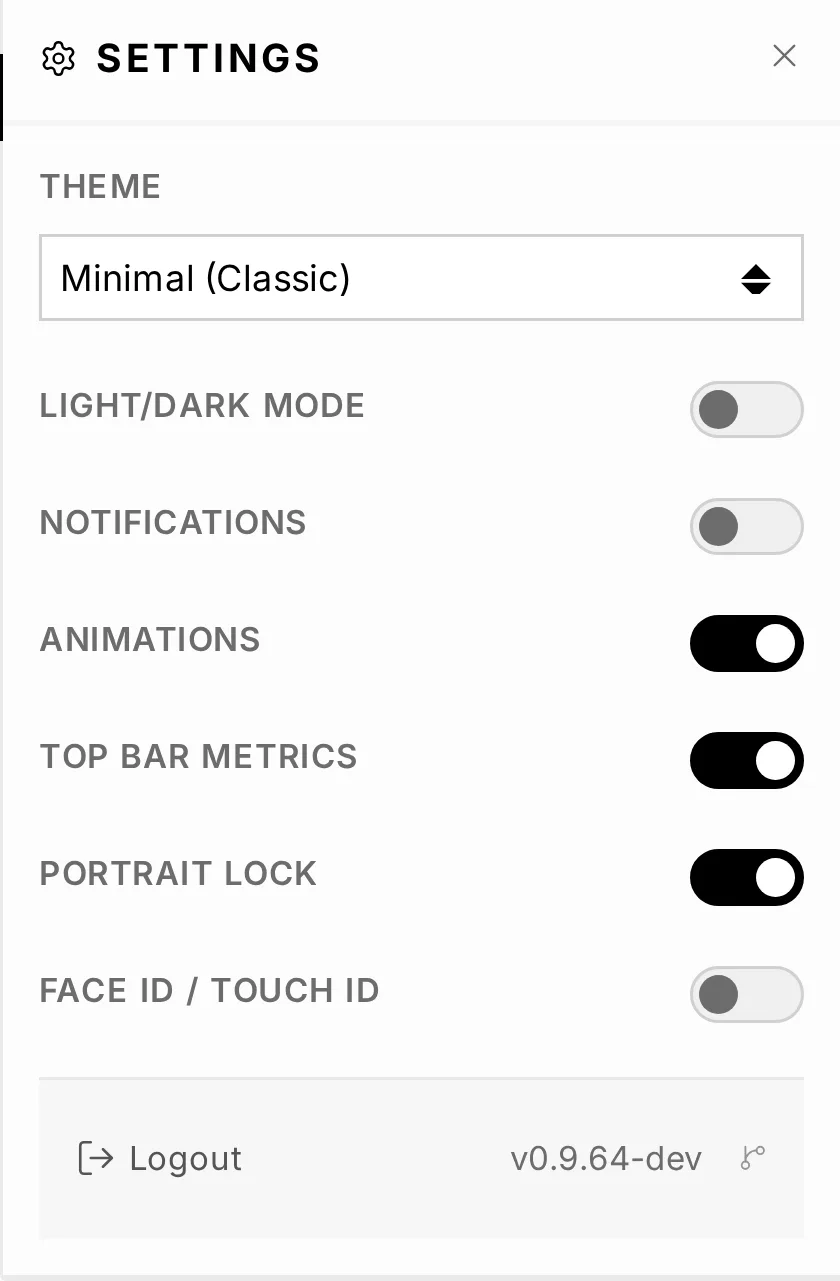
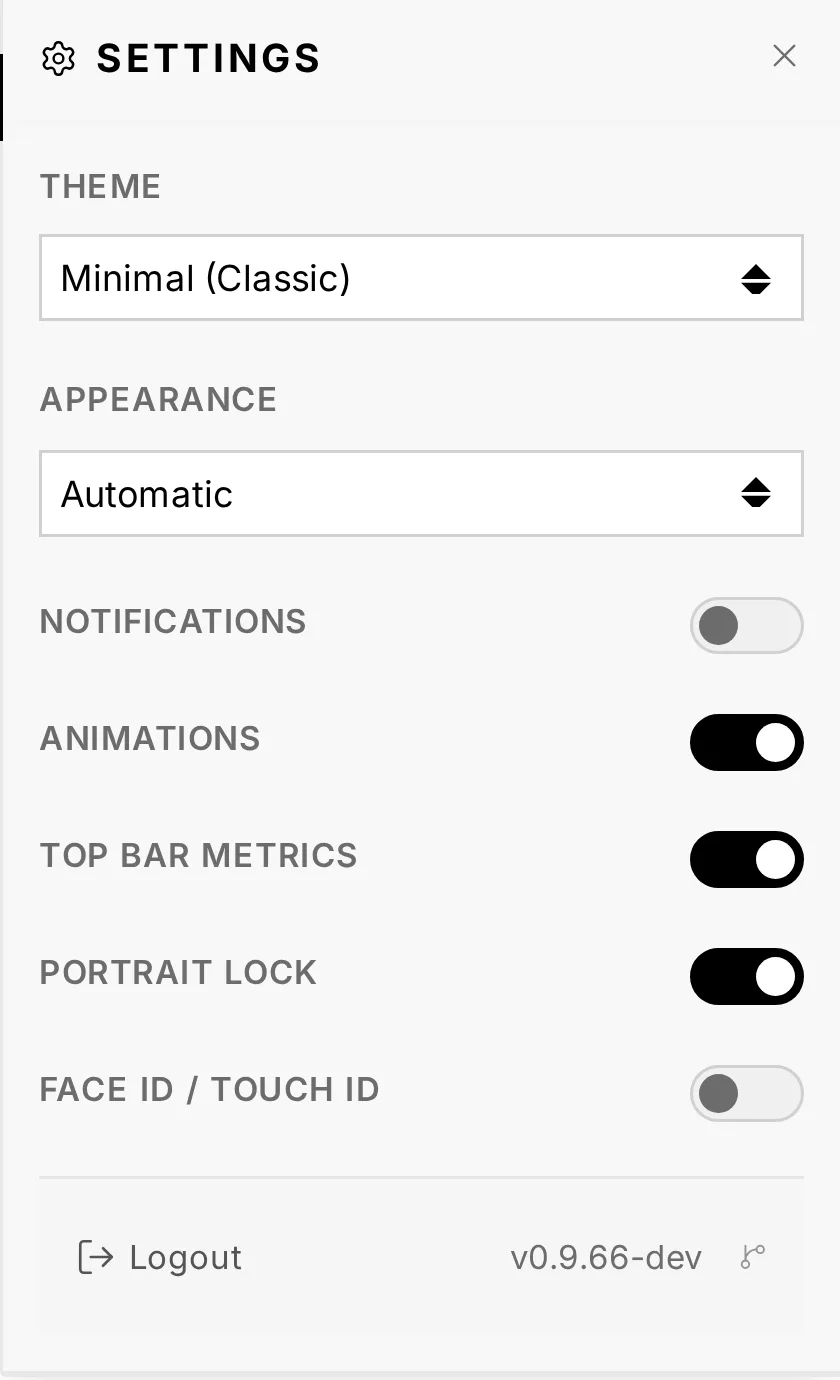
docs: document the interface's visual pass
Changelog and release notes for the visual pass of the interface; the
manual's chapters 03, 04, 05, 07 and 09 and three of its figures follow
it; the editions speak of a simulation, not a dry-run.

diff --git a/index.html b/index.html
@@ -1282,7 +1282,7 @@
                             <div class="pp-row"><span class="ck"><svg class="ck-ic" viewBox="0 0 24 24" aria-label="yes" role="img"><use href="#ic-check" /></svg></span><span><b>Services</b> — live monitoring · start
                                     / stop / restart</span></div>
                             <div class="pp-row"><span class="ck"><svg class="ck-ic" viewBox="0 0 24 24" aria-label="yes" role="img"><use href="#ic-check" /></svg></span><span><b>Software</b> — install · update ·
-                                    dry-run</span></div>
+                                    simulate</span></div>
                             <div class="pp-row"><span class="ck"><svg class="ck-ic" viewBox="0 0 24 24" aria-label="yes" role="img"><use href="#ic-check" /></svg></span><span><b>System</b> — hardware dashboard +
                                     audio inventory</span></div>
                             <div class="pp-row"><span class="ck"><svg class="ck-ic" viewBox="0 0 24 24" aria-label="yes" role="img"><use href="#ic-check" /></svg></span><span><b>Users</b> — Admin / User / Guest

diff --git a/CHANGELOG.md b/CHANGELOG.md
@@ -9,6 +9,26 @@ and this landing) are documented here. Format based on
 
 ## [Unreleased]
 
+### Added
+- **[ui][manual] The app can follow the device's light or dark mode.** Settings → Appearance offers *Automatic*, *Light* and *Dark* in place of the light/dark switch. *Automatic*, the default, follows the device — light by day, dark at night on a device that switches by itself — and so does the sign-in screen, from its first paint. A device set to light or dark with the old switch keeps that choice.
+- **[ui][manual] A live radio shows LIVE instead of a progress bar.** A live stream has no end and no position: the bar gives way to a *LIVE* marker under the transport, which dims while the stream is paused.
+
+### Changed
+- **[ui][manual] On a phone, the mini-player gives the title its room.** Title and artist shared one line, in the width four buttons left them — 115 px on an iPhone mini — and had to scroll to be read. *Previous* leaves the bar (the full player keeps it; volume stays), and title and artist take a line each: 159 px of text.
+- **[ui][manual] A radio card's actions open from ⋯.** In *My Live Radio* every card carried a green tick that meant *Remove from My Live Radio*: touching it removed the station. A ⋯ button now opens *Edit station* and *Remove from My Live Radio*.
+- **[ui] The settings panel and the tab menu are opaque.** At 40 % with a blur, the page showed through them: coloured smudges and stray words between the switches and under the tab names.
+- **[ui] On a phone, every page's title sits at the same distance from the tab menu.** Six tabs left 2 px between the menu and the title, three left 6 px; all now leave 6 px.
+- **[ui] Text faded at rest reads again.** The cards of stopped services, the dates of configuration files and the *PERSIST* label were faded down to 2.8–3.5:1; they now keep the contrast of the text around them.
+- **[ui] Check boxes and radio buttons take the theme's colours.** They took the browser's blue, and in the dark palette an unchecked box was a white square: they now take the text's colour, drawn in the light or dark palette in force.
+- **[ui] System figures are written as they are.** Values were set in capitals — *X86_64*, and *MHZ*, which is no unit; they now read *x86_64* and *MHz*, the unit smaller on the number's line.
+- **[ui][manual] Plainer words in Admin.** The live feed's tile is *Live updates*, no longer *SSE Stream*, and the cockpit at the bottom of the tab is the *UI performance cockpit*.
+- **[ui] On a computer, the library's lists are centred.** The queue, sources, outputs and radio lists stretched across the whole screen; they now keep to 900 px, centred, under a tab bar that stays in place from one view to the next.
+- **[ui] The full-screen player uses a landscape screen's width.** From 900 px wide in landscape, the cover sits on the left and the track, its controls and what comes next on the right, instead of one column under the cover.
+- **[site][ui] The editions speak of a simulation, not a dry-run.** The Starter edition's software line, on the landing and in the app.
+
+### Fixed
+- **[ui] The System tab shows the memory in use.** It read two fields the core does not send, and showed *0.0 GB / 0.0 GB* on every box; it now shows the memory in use and the total, such as *2.8 GB / 3.7 GB*.
+
 ## [0.9.65] - 2026-10-04
 
 ### Added

diff --git a/docs/manual/07-administration.md b/docs/manual/07-administration.md
@@ -12,7 +12,7 @@ Audiogravi<sup>ty</sup>: the **user cards** (below), unread
 [announcements](#announcements), the [update banner](08-updating.md) — and the
 **licence** panel, which also opens when a Starter install taps a locked Pro tab.
 
-At the bottom of the tab, the **Frontend performance cockpit** measures the app itself in
+At the bottom of the tab, the **UI performance cockpit** measures the app itself in
 your browser: the live updates it receives, its timers, the memory it uses (in Chrome, Edge
 and other Chromium browsers) and how long the page has been open. It is a diagnostic aid —
 nothing there changes how the box plays.
@@ -56,10 +56,12 @@ closed, for the same 12 hours.
 The **gear** in the top bar opens the app-wide Settings panel:
 
 - **Theme** — three looks: *Minimal (Classic)*, *Slate (Modern)* and *Gravity (Bold &
-  Cosmic)* — plus a **Light/Dark Mode** toggle. The light/dark switch is also on the
-  sign-in screen, so the choice can be made before signing in (see
-  [3. First run](03-first-run.md#2-sign-in--and-secure-your-account)); the look itself is
-  chosen here.
+  Cosmic)*. The look is chosen here.
+- **Appearance** — **Automatic**, the default, follows your device: light by day, dark at
+  night on a device that switches by itself. **Light** and **Dark** keep one, whatever the
+  device does. The sign-in screen has a light/dark button too, so the choice can be made
+  before signing in (see
+  [3. First run](03-first-run.md#2-sign-in--and-secure-your-account)).
 - **Notifications** — subscribe this device to **push notifications** (see below).
 - **Animations** — turns UI motion off (functional loading spinners keep animating so
   an operation never looks stuck).
@@ -71,7 +73,7 @@ The **gear** in the top bar opens the app-wide Settings panel:
   registered device appears as a chip you can remove individually. (These are the
   same credentials as the *Passkeys* button on your user card above.)
 
-<img src="images/ios-settings.webp" alt="The Settings panel: theme, and one toggle per row — light/dark mode, notifications, animations, top bar metrics, portrait lock and Face ID / Touch ID" width="360">
+<img src="images/ios-settings.webp" alt="The Settings panel: the theme and appearance menus, then one toggle per row — notifications, animations, top bar metrics, portrait lock and Face ID / Touch ID" width="360">
 
 ### Push notifications
 
@@ -329,8 +331,8 @@ shairport-sync, Roon Bridge…).
 
 Real-time monitoring and box-level actions.
 
-- **Metrics** — CPU, temperature, memory, disk and network, updated live; the **SSE
-  Stream** tile shows whether the live feed is connected.
+- **Metrics** — CPU, temperature, memory, disk and network, updated live; the **Live
+  updates** tile shows whether the live feed is connected.
 - **System & audio hardware** — hostname, OS, kernel, CPU model/cores; every audio
   card, USB interface and subdevice.
 - **Event log** — system events and live updates; RUNNING/STOPPED to pause, CLEAR to

diff --git a/docs/manual/04-listening.md b/docs/manual/04-listening.md
@@ -8,7 +8,8 @@ of controls.
 
 A sticky **Now Playing** bar sits above the footer and shows **all active audio
 sources** at once, with quick transport — previous, play/pause, next, and volume.
-Repeat and shuffle are in the fullscreen player.
+Repeat and shuffle are in the fullscreen player — and on a phone, previous too: there
+the bar gives its room to the title and the artist, a line each.
 
 **Opening the fullscreen player.** There are three ways in, and tapping the bar
 itself is not one of them:
@@ -21,12 +22,13 @@ itself is not one of them:
 Tapping the **cover art** does something else: it opens the album's details —
 Album, Artist, Year, Genre, Format, Position, Source — and its tracklist.
 
-<img src="images/ios-nowplaying-bar.webp" alt="The Now Playing bar: cover art, the stream-origin and output badges, the track, and the transport — previous, play/pause, next and volume" width="360">
+<img src="images/ios-nowplaying-bar.webp" alt="The Now Playing bar on a phone: cover art, the stream-origin and output badges, the title and the artist on a line each, and the transport — play/pause, next and volume" width="360">
 
 ## The fullscreen player
 
 - **Cover art** with a dynamic background derived from it, a **seekable progress
-  bar**, and full **transport**: repeat · previous · play/pause · next · shuffle.
+  bar** — **Live** in its place for an internet radio station, which has no end — and
+  full **transport**: repeat · previous · play/pause · next · shuffle.
 - **Album details** — Album, Artist, Format, Genre, Year, Position, Source and the
   full **Tracklist**.
 - A **Queue** view for what's coming up (see below).

diff --git a/RELEASE_NOTES.md b/RELEASE_NOTES.md
@@ -7,7 +7,30 @@ Synthesized overview of each release. For the full line-by-line changelog, see
 
 ## Unreleased
 
-_Nothing yet._
+### A visual pass
+
+**Light or dark, like your device.** Settings → Appearance now offers *Automatic*, *Light*
+and *Dark*. *Automatic* follows your device — light by day, dark at night on a device that
+switches by itself — down to the sign-in screen. A choice made with the old switch is kept.
+
+**Radio, live.** A live station has no end and no position: the progress bar gives way to a
+*LIVE* marker. In *My Live Radio*, a green tick on every card removed the station at a touch;
+a ⋯ button now opens *Edit station* and *Remove from My Live Radio*.
+
+**A phone that reads better.** The mini-player gives the title and the artist a line each
+instead of one scrolling line. Every page's title sits at the same distance from the tab
+menu, and the settings panel no longer lets the page show through.
+
+**Quiet, not faint.** Text that was faded at rest — stopped services, file dates — keeps a
+readable contrast, and check boxes and radio buttons take the theme's colours instead of the
+browser's blue.
+
+**On a computer.** The library's lists are centred, and the full-screen player uses the width
+of a landscape screen: the cover on the left, the track on the right.
+
+**Figures as they are.** The System tab shows the memory in use instead of *0.0 GB*, and
+writes its figures as they are written — *x86_64*, *MHz*. The live feed's tile now says
+*Live updates*.
 
 ---
 

diff --git a/EDITIONS.md b/EDITIONS.md
@@ -19,7 +19,7 @@ to run and monitor your audio system:
 
 - **Profiles** — one-click switching between pre-configured audio chain scenarios; activates required services and stops conflicting ones automatically
 - **Services** — real-time monitoring and control of audio services (start / stop / restart / enable at boot) with live CPU, memory and I/O metrics, each with a sparkline of its recent values
-- **Software** — install, update and remove audio packages with dry-run simulation before committing changes
+- **Software** — install, update and remove audio packages, with a simulation before committing changes
 - **System** — hardware dashboard: CPU, temperature, memory, disk and network at a glance; full audio device inventory (ALSA cards, USB interfaces, subdevices)
 - **Users** — role-based access management (Admin, User, Guest) with WebAuthn / passkeys login
 - **Push notifications** — iOS, Android and desktop alerts when a service goes down, the processor overheats, a software update is available or a profile is activated

diff --git a/docs/manual/05-library-streaming.md b/docs/manual/05-library-streaming.md
@@ -313,9 +313,11 @@ radio view has three sub-tabs:
 - **Search** — a query box with **country**, **genre** and **Hi-Res** filters, backed
   by the Radio Browser catalogue.
 
-On each station card: **tap** to play, the **star** toggles Favorites, the **+**
-toggles My Live Radio, the **pencil** edits a custom station, and a **left-swipe**
-removes it from the current list.
+On each station card: **tap** to play, the **star** toggles Favorites, and the **+**
+adds the station to My Live Radio. **⋯** unfolds what else the station allows, under
+it: **Edit station** on a saved station (in My Live Radio or Favorites), and **Remove
+from My Live Radio** on one already there. Outside Search, a **left-swipe** removes the
+station from the current list.
 
 <img src="images/ios-radio.webp" alt="My Live Radio: the three sub-tabs, the Add custom station button, and station rows with their logo, country, bitrate, codec badge and favourite star" width="360">
 

diff --git a/docs/manual/09-troubleshooting.md b/docs/manual/09-troubleshooting.md
@@ -386,14 +386,16 @@ tap, and repeating it will not help until the cause is fixed.
 
 ## The progress bar won't move
 
-Jumping inside a track is declined — and says so — in three cases, none of them a fault:
+Jumping inside a track is declined — and says so — in two cases, neither of them a fault:
 
-- **Internet radio.** A live broadcast has no end to jump to.
 - **The first seconds of a Tidal track's first listen.** The track plays while it is still
   arriving; the seekable copy is ready a few seconds in. Wait a moment and drag again — the
   rest of that first listen seeks normally.
 - **Two jumps in quick succession.** The second is declined while the first is still
   being applied. Wait a moment and drag again.
+
+An internet radio station shows **Live** instead of a progress bar: a live broadcast has
+no end to jump to.
 
 ## Casting to a renderer stalls
 
